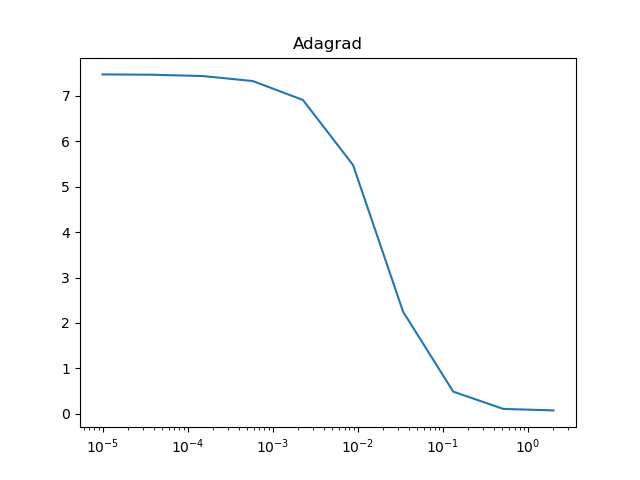
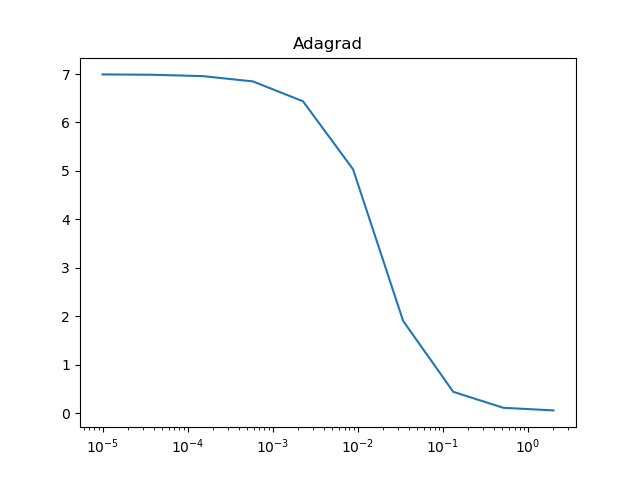
PartA now repeats experiment 5 times and takes average over thoose runs.

diff --git a/partA.py b/partA.py
@@ -5,6 +5,7 @@ second degree polynomial.
 
 For the stochastic part we use 10 batches. 
 
+We repeat this experiment for 5 different starting seeds and take an average for each method.
 """
 
 
@@ -71,7 +72,7 @@ def grad_cost_Ridge_lam(lamb):
     
     return grad_cost_Ridge
 
-#Plotting
+#Define path for plot
 import os
 from pathlib import Path
 cwd = os.getcwd()
@@ -101,6 +102,7 @@ def plot_etas(etas, MSEs, title, filename):
     plt.xscale("log")
     plt.title(title)
     plt.savefig(path / filename)
+    plt.close()
 
 
 
@@ -147,160 +149,180 @@ def fit(X, y, grad_cost_func, scheduler, batches = 1, epochs = 100, seed = 13):
     return theta
             
 
-# Data generation
+#Function we base our data on
 def f(x):
     return -3+5 * x -3*x**2
 
-n_datapoints = 100
-x = np.random.rand(n_datapoints, 1)
-y = f(x) + 0.1*np.random.randn(n_datapoints, 1)
-X = np.c_[np.ones(n_datapoints), x, x**2]
-
-n_etas = 10
-etas = np.geomspace(10**(-5), 2, n_etas)
-epochs = 20
-batches = 10 #If stochastic, use 10 minibatches
-
-
-#Keep track of best achieved MSE
-MSE_best_by_method = []
+#Keep track of MSE
+MSE_best_by_method_all = []
 MSE_method_names = []
 
-'''
-Next part runs though different gradient descent methods including
-Not stochastic:
-Constant
-Momemtum
+#Run the experiment for 5 different starting seeds.
+seeds = range(5)
+for seed in seeds:
 
-Stochastic gradient descenet:
-Constant
-Momemtum
-Adagrad
-Adagrad Momemtum
-RMSprop
-Adam
-'''
+    # Data generation
+    np.random.seed(seed)
+    n_datapoints = 100
+    x = np.random.rand(n_datapoints, 1)
+    y = f(x) + 0.1*np.random.randn(n_datapoints, 1)
+    X = np.c_[np.ones(n_datapoints), x, x**2]
+
+    n_etas = 10
+    etas = np.geomspace(10**(-5), 2, n_etas)
+    epochs = 20
+    batches = 10 #If stochastic, use 10 minibatches
 
 
-# Constant 
-method_name = "Constant"
-MSEs = [0] * n_etas
-for i, eta in enumerate(etas):
-    scheduler = Constant(eta)
-    theta = fit(X, y, grad_cost_OLS, scheduler, epochs=epochs)
-    MSEs[i] = cost_OLS(y, X, theta)
+    #Keep track of best achieved MSE this run
+    MSE_best_by_method = []
+    MSE_method_names = []
 
-MSE_best_by_method.append(min(MSEs))
-MSE_method_names.append(method_name)
-print(f"MSE {method_name}: {MSEs}")
-plot_etas(etas, MSEs, method_name, method_name + ".png")
+    '''
+    Next part runs though different gradient descent methods including
+    Not stochastic:
+    Constant
+    Momemtum
 
-#Momentum
-method_name = "Momemtum"
-n_moms = 9
-mom_params = np.linspace(0.1, 1, n_moms)
-MSEs = np.zeros((n_etas, n_moms))
+    Stochastic gradient descenet:
+    Constant
+    Momemtum
+    Adagrad
+    Adagrad Momemtum
+    RMSprop
+    Adam
+    '''
 
-for i, eta in enumerate(etas):
-    for j, mom in enumerate(mom_params):
-        scheduler = Momentum(eta, mom)
+
+    # Constant 
+    method_name = "Constant"
+    MSEs = [0] * n_etas
+    for i, eta in enumerate(etas):
+        scheduler = Constant(eta)
         theta = fit(X, y, grad_cost_OLS, scheduler, epochs=epochs)
-        MSEs[i][j] = cost_OLS(y, X, theta)
+        MSEs[i] = cost_OLS(y, X, theta)
+
+    MSE_best_by_method.append(min(MSEs))
+    MSE_method_names.append(method_name)
+    print(f"MSE {method_name}: {MSEs}")
+    plot_etas(etas, MSEs, method_name, method_name + ".png")
+
+    #Momentum
+    method_name = "Momemtum"
+    n_moms = 9
+    mom_params = np.linspace(0.1, 1, n_moms)
+    MSEs = np.zeros((n_etas, n_moms))
+
+    for i, eta in enumerate(etas):
+        for j, mom in enumerate(mom_params):
+            scheduler = Momentum(eta, mom)
+            theta = fit(X, y, grad_cost_OLS, scheduler, epochs=epochs)
+            MSEs[i][j] = cost_OLS(y, X, theta)
 
 
-MSE_best_by_method.append(np.min(MSEs.flatten()))
-MSE_method_names.append(method_name)
-print(f"MSE {method_name}: {np.min(MSEs)}")
-plot_etas(etas, np.min(MSEs, axis=1), method_name, method_name + ".png")
+    MSE_best_by_method.append(np.min(MSEs.flatten()))
+    MSE_method_names.append(method_name)
+    print(f"MSE {method_name}: {np.min(MSEs)}")
+    plot_etas(etas, np.min(MSEs, axis=1), method_name, method_name + ".png")
 
 
-#Stochastic part
+    #Stochastic part
 
-#Stochastic constant
-method_name = "Constant_SGD"
-MSEs = [0] * n_etas
-for i, eta in enumerate(etas):
-    scheduler = Constant(eta)
-    theta = fit(X, y, grad_cost_OLS, scheduler,batches =batches, epochs=epochs)
-    MSEs[i] = cost_OLS(y, X, theta)
+    #Stochastic constant
+    method_name = "Constant_SGD"
+    MSEs = [0] * n_etas
+    for i, eta in enumerate(etas):
+        scheduler = Constant(eta)
+        theta = fit(X, y, grad_cost_OLS, scheduler,batches =batches, epochs=epochs)
+        MSEs[i] = cost_OLS(y, X, theta)
 
-MSE_best_by_method.append(min(MSEs))
-MSE_method_names.append(method_name)
-print(f"MSE {method_name}: {MSEs}")
-plot_etas(etas, MSEs, method_name, method_name + ".png")
-
-
-#SGD with momemtum
-method_name = "Momemtum_SGD"
-MSEs = [0] * n_etas
-for i, eta in enumerate(etas):
-    scheduler = Momentum(eta, 0.1)
-    theta = fit(X, y, grad_cost_OLS, scheduler,batches =batches, epochs=epochs)
-    MSEs[i] = cost_OLS(y, X, theta)
-
-MSE_best_by_method.append(min(MSEs))
-MSE_method_names.append(method_name)
-print(f"MSE {method_name}: {MSEs}")
-plot_etas(etas, MSEs, method_name, method_name + ".png")
+    MSE_best_by_method.append(min(MSEs))
+    MSE_method_names.append(method_name)
+    print(f"MSE {method_name}: {MSEs}")
+    plot_etas(etas, MSEs, method_name, method_name + ".png")
 
 
-# 4 Adagrad no momemtum
-method_name = "Adagrad"
-MSEs = [0] * n_etas
-for i, eta in enumerate(etas):
-    scheduler = Adagrad(eta)
-    theta = fit(X, y, grad_cost_OLS, scheduler,batches =batches, epochs=epochs)
-    MSEs[i] = cost_OLS(y, X, theta)
+    #SGD with momemtum
+    method_name = "Momemtum_SGD"
+    MSEs = [0] * n_etas
+    for i, eta in enumerate(etas):
+        scheduler = Momentum(eta, 0.1)
+        theta = fit(X, y, grad_cost_OLS, scheduler,batches =batches, epochs=epochs)
+        MSEs[i] = cost_OLS(y, X, theta)
 
-MSE_best_by_method.append(min(MSEs))
-MSE_method_names.append(method_name)
-print(f"MSE {method_name}: {MSEs}")
-plot_etas(etas, MSEs, method_name, method_name + ".png")
-
-
-#Adagrad with momemtum
-method_name = "AdagradMomemtum"
-MSEs = [0] * n_etas
-for i, eta in enumerate(etas):
-    scheduler = AdagradMomentum(eta, 0.2)
-    theta = fit(X, y, grad_cost_OLS, scheduler,batches =batches, epochs=epochs)
-    MSEs[i] = cost_OLS(y, X, theta)
-
-MSE_best_by_method.append(min(MSEs))
-MSE_method_names.append(method_name)
-print(f"MSE {method_name}: {MSEs}")
-plot_etas(etas, MSEs, method_name, method_name + ".png")
+    MSE_best_by_method.append(min(MSEs))
+    MSE_method_names.append(method_name)
+    print(f"MSE {method_name}: {MSEs}")
+    plot_etas(etas, MSEs, method_name, method_name + ".png")
 
 
+    # 4 Adagrad no momemtum
+    method_name = "Adagrad"
+    MSEs = [0] * n_etas
+    for i, eta in enumerate(etas):
+        scheduler = Adagrad(eta)
+        theta = fit(X, y, grad_cost_OLS, scheduler,batches =batches, epochs=epochs)
+        MSEs[i] = cost_OLS(y, X, theta)
 
-# 5 RSMProp
-MSEs = [0] * n_etas
-method_name = "RMSprop"
-for i, eta in enumerate(etas):
-    scheduler = RMS_prop(eta, 0.9)
-    theta = fit(X, y, grad_cost_OLS, scheduler,batches =batches, epochs=epochs)
-    MSEs[i] = cost_OLS(y, X, theta)
+    MSE_best_by_method.append(min(MSEs))
+    MSE_method_names.append(method_name)
+    print(f"MSE {method_name}: {MSEs}")
+    plot_etas(etas, MSEs, method_name, method_name + ".png")
 
-MSE_best_by_method.append(min(MSEs))
-MSE_method_names.append(method_name)
-print(f"MSE {method_name}: {MSEs}")
-plot_etas(etas, MSEs, method_name, method_name + ".png")
+
+    #Adagrad with momemtum
+    method_name = "AdagradMomemtum"
+    MSEs = [0] * n_etas
+    for i, eta in enumerate(etas):
+        scheduler = AdagradMomentum(eta, 0.2)
+        theta = fit(X, y, grad_cost_OLS, scheduler,batches =batches, epochs=epochs)
+        MSEs[i] = cost_OLS(y, X, theta)
+
+    MSE_best_by_method.append(min(MSEs))
+    MSE_method_names.append(method_name)
+    print(f"MSE {method_name}: {MSEs}")
+    plot_etas(etas, MSEs, method_name, method_name + ".png")
 
 
 
-# Adam
-method_name = "Adam"
-MSEs = [0] * n_etas
-for i, eta in enumerate(etas):
-    scheduler = Adam(eta, 0.9, 0.99)
-    theta = fit(X, y, grad_cost_OLS, scheduler,batches =batches, epochs=epochs)
-    MSEs[i] = cost_OLS(y, X, theta)
+    # 5 RSMProp
+    MSEs = [0] * n_etas
+    method_name = "RMSprop"
+    for i, eta in enumerate(etas):
+        scheduler = RMS_prop(eta, 0.9)
+        theta = fit(X, y, grad_cost_OLS, scheduler,batches =batches, epochs=epochs)
+        MSEs[i] = cost_OLS(y, X, theta)
 
-MSE_best_by_method.append(min(MSEs))
-MSE_method_names.append(method_name)
-print(f"MSE {method_name}: {MSEs}")
-plot_etas(etas, MSEs, method_name, method_name + ".png")
+    MSE_best_by_method.append(min(MSEs))
+    MSE_method_names.append(method_name)
+    print(f"MSE {method_name}: {MSEs}")
+    plot_etas(etas, MSEs, method_name, method_name + ".png")
 
+
+
+    # Adam
+    method_name = "Adam"
+    MSEs = [0] * n_etas
+    for i, eta in enumerate(etas):
+        scheduler = Adam(eta, 0.9, 0.99)
+        theta = fit(X, y, grad_cost_OLS, scheduler,batches =batches, epochs=epochs)
+        MSEs[i] = cost_OLS(y, X, theta)
+
+    MSE_best_by_method.append(min(MSEs))
+    MSE_method_names.append(method_name)
+    print(f"MSE {method_name}: {MSEs}")
+    plot_etas(etas, MSEs, method_name, method_name + ".png")
+
+    print(f"MSE list {MSE_best_by_method}")
+    MSE_best_by_method_all.append(MSE_best_by_method)
+
+
+#Print array of best MSE for each method and run.
+MSE_best_by_method = np.asanyarray(MSE_best_by_method_all)
+print(MSE_best_by_method)
+
+#Average over all the runs.
+MSE_best_by_method = np.mean(MSE_best_by_method, axis=0)
 
 #Define path for plotting
 path = Path(cwd) / "FigurePlots"
@@ -308,10 +330,10 @@ if not path.exists():
     path.mkdir()
 
 
-#Plots the best achieved MSE by gradient method
+#Plots the average best achieved MSE by gradient method
 plt.figure()
 plt.bar(range(0, 2*len(MSE_method_names), 2), MSE_best_by_method,  tick_label =MSE_method_names)
-plt.title("Best MSE error by gradient descent method OLS")
+plt.title("Average best MSE error by gradient descent method OLS")
 plt.xticks(rotation=-30)
 plt.tight_layout()
 plt.savefig(path / "PartAOLS.png")
